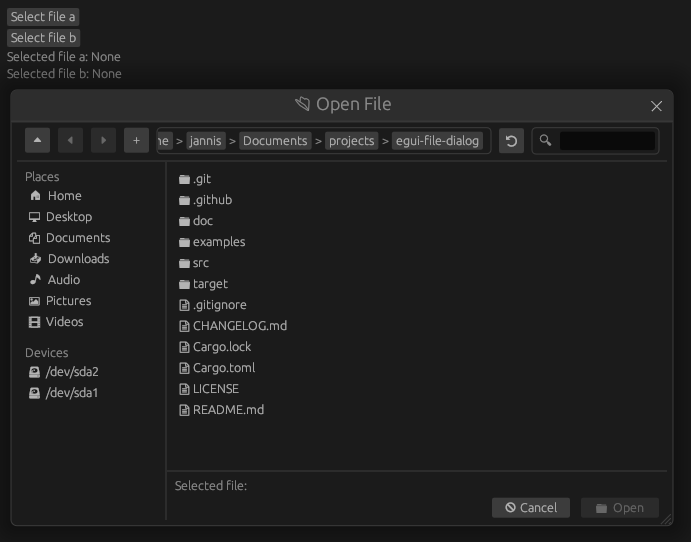
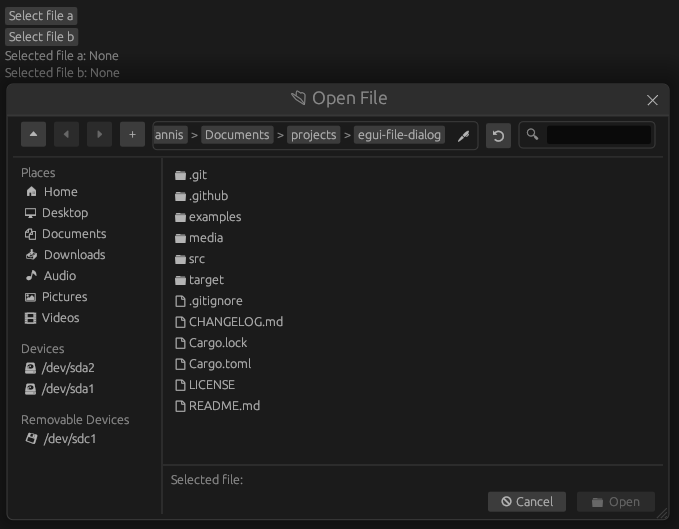
Update demo and example screenshots (#86)
* Update demo screenshots

* Update CHANGELOG.md

diff --git a/CHANGELOG.md b/CHANGELOG.md
@@ -42,6 +42,7 @@
 - Updated project description, features and planned features in `README.md` [#78](https://github.com/fluxxcode/egui-file-dialog/pull/78)
 - Added customization example to `README.md` and `lib.rs` [#83](https://github.com/fluxxcode/egui-file-dialog/pull/83)
 - Added multilingual example to `README.md`, `lib.rs` and an interactive example in `examples/` [#81](https://github.com/fluxxcode/egui-file-dialog/pull/81)
+- Updated demo and example screenshots to include new path edit button [#86](https://github.com/fluxxcode/egui-file-dialog/pull/86)
 
 ## 2024-02-20 - v0.3.1 - Bug fixes
 ### 🐛 Bug Fixes

diff --git a/README.md b/README.md
@@ -126,6 +126,7 @@ FileDialog::new()
     .resizable(false)
     .show_new_folder_button(false)
     .show_search(false)
+    .show_path_edit_button(false)
     // Markdown and text files should use the "document with text (U+1F5B9)" icon
     .set_file_icon(
         "🖹",
